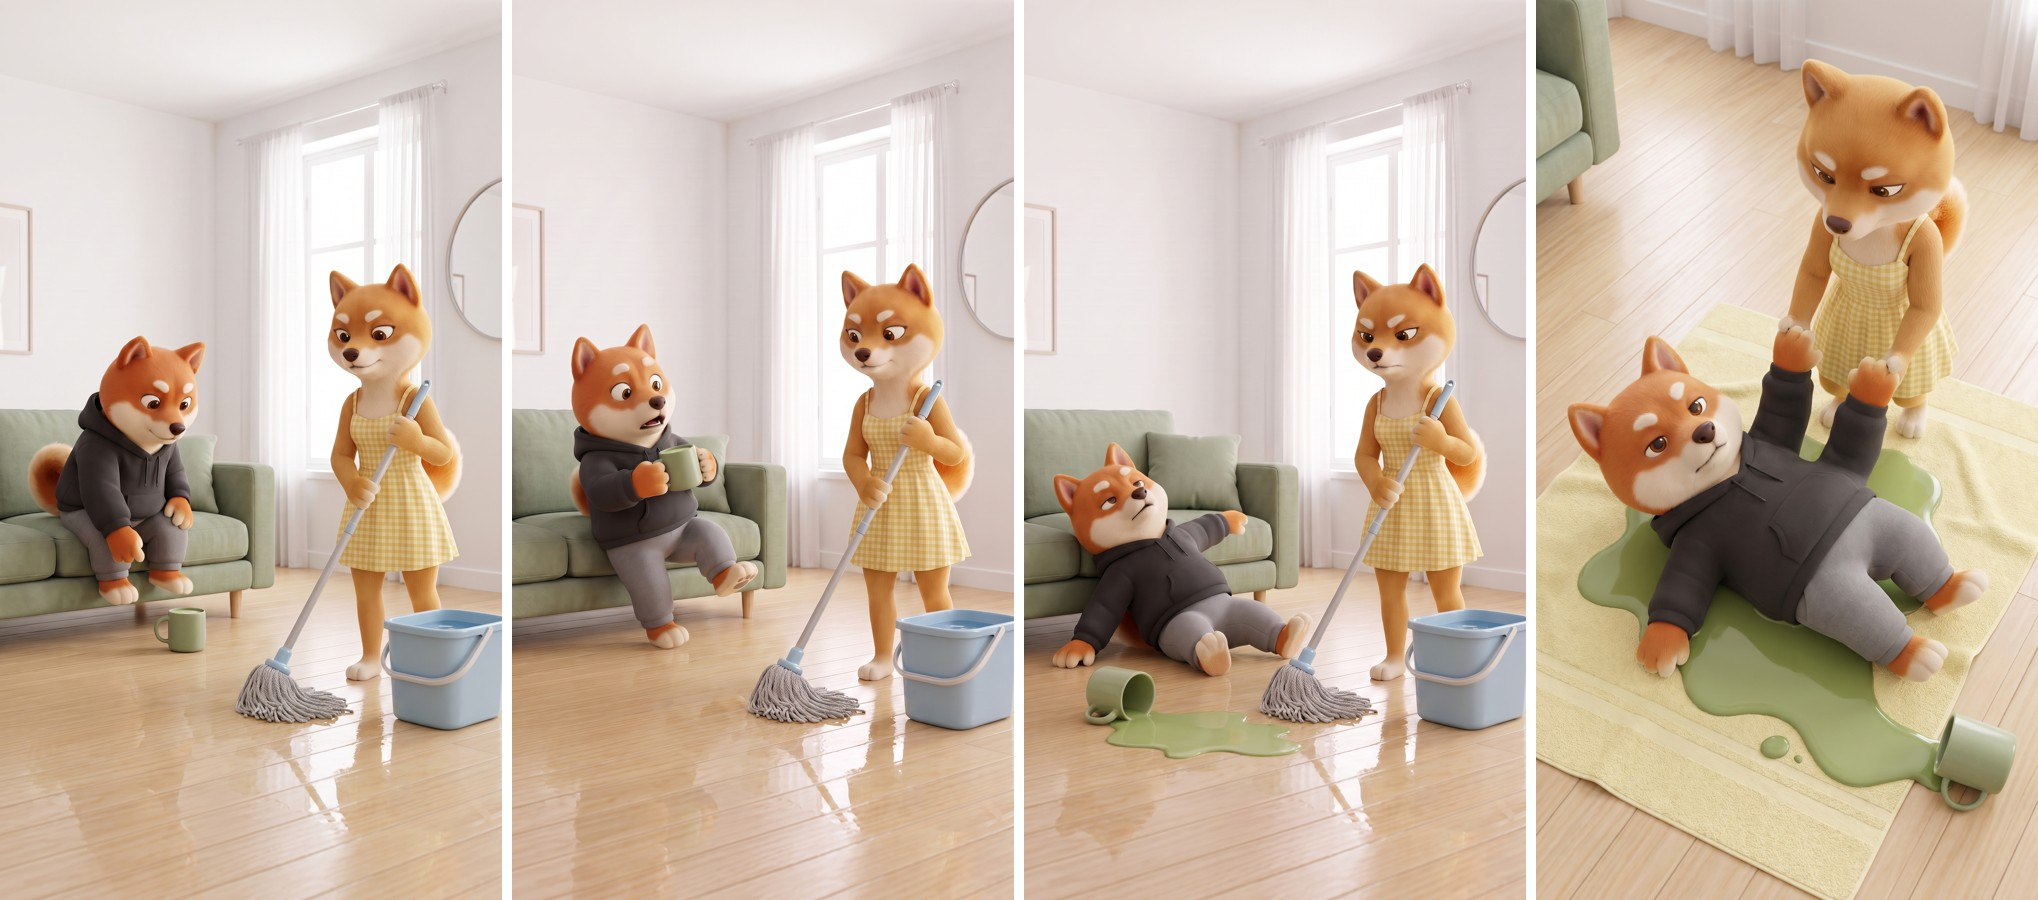
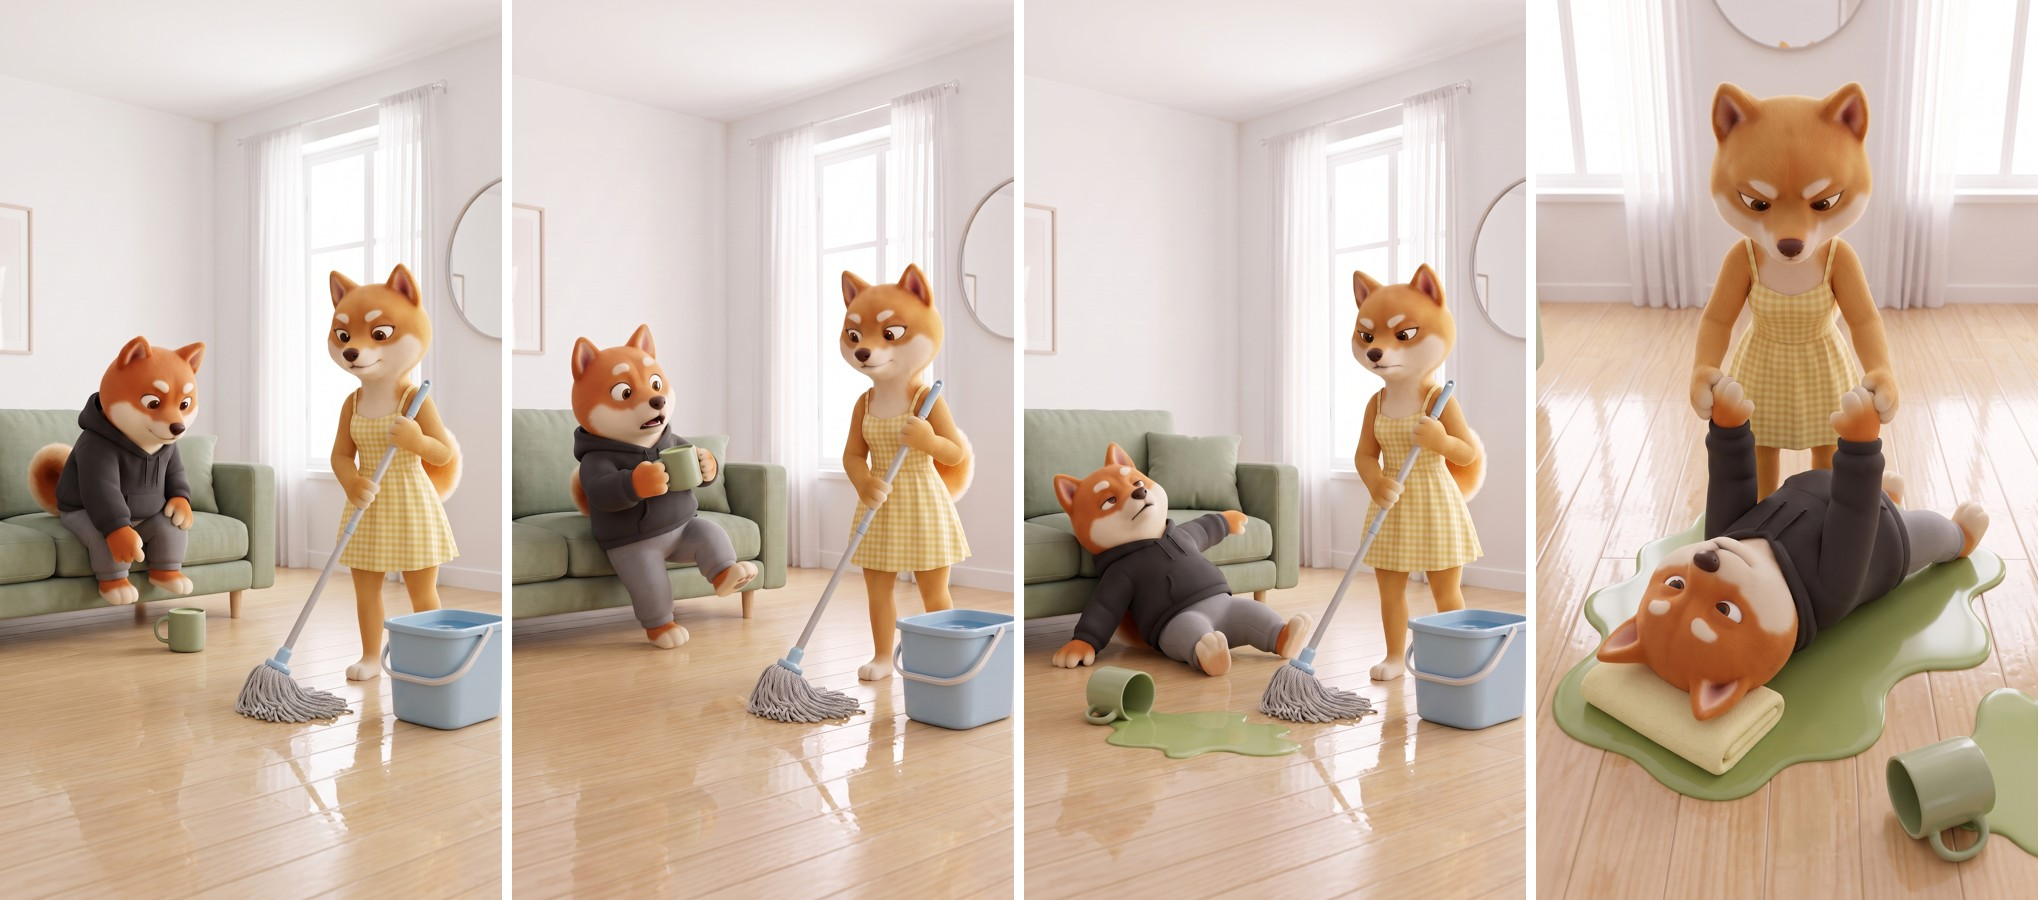
Human mop: still 4 with folded towel under Kenji's head
Claude-Session: https://claude.ai/code/session_01LDc9S6T3fQU2rZjsRh7sGC

Changed region(s): [[0.7419, 0.0, 1.0, 1.0]]

diff --git a/daily/2026-11-14/human-mop-storyboard.md b/daily/2026-11-14/human-mop-storyboard.md
@@ -48,3 +48,4 @@ Sound: playful acoustic music (one cue per beat), vacuum hum, stumble + splat on
 Yuki mops the floor; Kenji picks up his matcha, slips on the wet floor, spills it; Yuki gets angry and uses Kenji as a mop.
 Approved-for-review stills: 1 key b511c266-76ee-43f6-99a0-4c0c285c3d90 · 2 slip da2e59ac-5578-4499-8643-874154c5526c · 3 spill 08a9b757-5c5b-42f8-882a-c21a08bfc4bd · 4 mop ee966c3e-b32f-4ce9-8dd0-976d576ede02
 (Rejected: slip redo 298633e3, Kenji lost his hoodie and pants.)
+Update: still 4 replaced by 6750d72c-d6dc-4c21-b4d2-aab31a72ac9e (user: folded towel under Kenji's head; he lies in the puddle). Rejected: f8892809 and 609f8779 (Kenji had a third arm).

diff --git a/daily/2026-11-07/v4-jobs.md b/daily/2026-11-07/v4-jobs.md
@@ -38,3 +38,4 @@ vidIQ watch 10 credits. Stills: wide 39f7ea78-0dc8-4e59-8411-814d4f23483d, close
 
 ## Human mop (2026-11-14)
 vidIQ watch 10 credits. Stills (8 credits): 1 key 6cf4aa6c-21bb-4ae1-8db1-3661be72c1f6 · 2 stumble 378bfa8b-7bc7-4864-b6d1-db779b7c72d6 · 3 aftermath 941c1049-172c-40dd-b12d-5dc798a68bb8 · 4 mop ee966c3e-b32f-4ce9-8dd0-976d576ede02. Superseded by mop version: 1 b511c266 · 2 da2e59ac · 3 08a9b757 · 4 ee966c3e (slip redo 298633e3 rejected, outfit lost). 16 credits on stills so far (8 stills).
+- Still 4 (folded towel under head): 6750d72c-d6dc-4c21-b4d2-aab31a72ac9e. Rejected f8892809, 609f8779 (third arm). Stills total 22 credits (11 stills).
